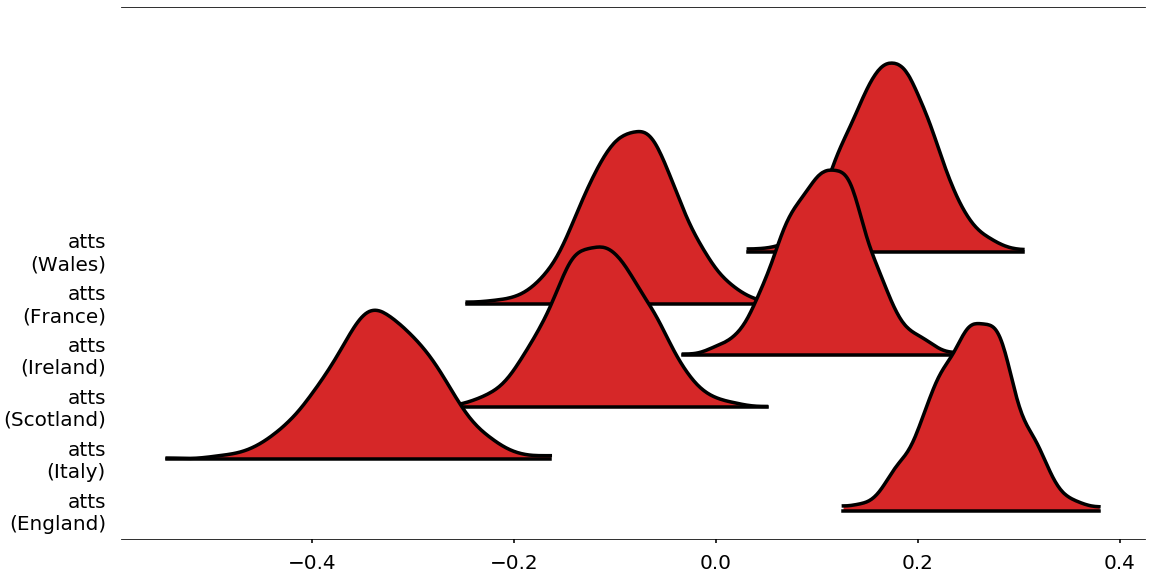
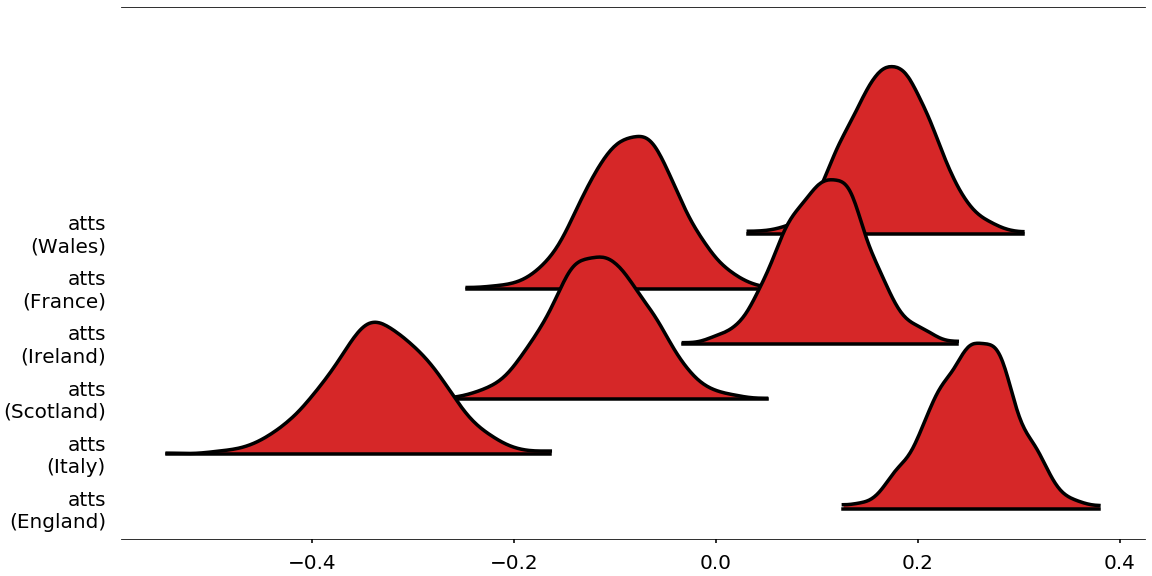
Updates

diff --git a/index.html b/index.html
@@ -33,7 +33,7 @@
 				<h3> Visualizing Bayesian models with xarray and ArviZ</h3>
 
 				<div>
-					<table style="width: 70%">
+					<table style="width: 60%">
 						<tr>
 							<td>
 								<img data-src="img/xarray.png" />
@@ -48,19 +48,19 @@
 
 						<tr>
 							<td>
-								<h5><em>Colin Carroll,</em> PyData NYC</h5>
+								<em>Colin Carroll</em>, Freebird, Inc
 							</td>
 						</tr>
 						<tr>
 							<td>
-								<small>October 17, 2018</small>
+								PyData NYC, October 17, 2018
 							</td>
 						</tr>
 					</table>
 				</div>
 			</section>
 
-			<section>
+			<section class="center">
 
 				<ul>
 					<li>What is Bayesian inference?</li>
@@ -71,30 +71,30 @@
 			</section>
 
 			<section>
-				<h2>What is Bayesian Inference?</h2>
-				$$
-				P(\theta | X) = \frac{P(X | \theta) P(\theta)}{P(X)}
-				$$
 
-				<div class=plots style="left: 180px; top: 40px">
-					<img class="fragment fade-in-then-out" data-src="img/graph1.png" />
-					<img class="fragment fade-in" data-src="img/graph2.png" />
-				</div>
+				<h2>What is Bayesian Inference?</h2>
+				<br>
+				<p style="font-size: 64px;">
+					$$
+					P(\theta | X) = \frac{P(X | \theta) P(\theta)}{P(X)}
+					$$
+				</p>
+
 			</section>
 
-			<section>
-				<h2>What is Bayesian Inference?</h2>
-				$$
-				P(\text{slope, intcpt.} | x, y) = \frac{P(x, y | \text{slope, intcpt.}) P(\text{slope, intcpt.})}{P(x, y)}
-				$$
+			<section class="center">
+				<p>
+					$$
+					P(\text{slope, intcpt.} | x, y) = \frac{P(x, y | \text{slope, intcpt.}) P(\text{slope, intcpt.})}{P(x, y)}
+					$$
+				</p>
+
 				<br>
 
-				$$
-				y = \text{slope} \cdot x + \text{intcpt.}
-				$$
-				<div class=plots style="left: 180px; top: 40px">
-					<img data-src="img/graph2.png" />
-				</div>
+				<p style="font-size: 64px;">
+					$$
+					y = \text{slope} \cdot x + \text{intercept}
+					$$
 
 			</section>
 
@@ -133,7 +133,7 @@
 				</div>
 			</section>
 
-			<section>
+			<section class="center">
 				<h2>What is
 					<img data-src="img/arviz.png" height=100px style="bottom: 0; margin: 0" />?</h2>
 			</section>
@@ -149,6 +149,15 @@
 				'z': x - y,
 			}
 					</code></pre>
+			</section>
+
+			<section>
+				<h2>Visualization</h2>
+				<pre><code class=python>az.plot_density(...)</code></pre>
+				<div class=plots>
+					<img class="fragment fade-in-then-out" data-src="img/density1.png" />
+					<img class="fragment fade-in" data-src="img/density2.png" />
+				</div>
 			</section>
 
 			<section>
@@ -445,7 +454,7 @@ az.convert_to_inference_data(...)</code></pre>
 			<section>
 				<h2>Thank You!</h2>
 				<pre><code class=python>			 pip install arviz</code></pre>
-				<img data-src="img/arviz.png" height=150< />
+				<img data-src="img/freebird.gif" height=250< />
 				<ul>
 					<li>github.com/arviz-devs/arviz</li>
 					<li>arviz-devs.github.io/arviz/</li>

diff --git a/outline.md b/outline.md
@@ -1,93 +1,135 @@
 
 # Outline
 
-Thank you for being here. This is a very exciting talk to give - ArviZ is a project that four of us have been coding hard on for about six months, with helpful input and pull requests from other members of the statistical computing community. ArviZ is a library for visualizing and criticising Bayesian anaylsis in Python. I hope today to do three things.
+Thank you for being here. This is a very exciting talk to give. ArviZ is an open source library for visualizing and criticising Bayesian anaylsis in Python. We have been working hard on it for about 8 months, and I am really excited to start sharing it with the larger PyData community.
 
+-------------
 
-In order for you to be properly impressed with the technical brilliance of ArviZ, I will give a brief overview of Bayesian statistics. Then I will show a little of what you can do with ArviZ. This is secretly also an overview of Bayesian statistics, in the spirit of form fitting function: I hope that those of you less familiar with these techniques will learn about the sorts of questions you can or should be asking about your data. We will conclude with a discussion of how we used xarray to interoperate between many different Bayesian libraries, and how useful the right datastructure for the job can be.
+I have a lot of goals for this talk. One is a light introduction to Bayesian statistics. I urge everyone to go see Sean Talt's master class coming up after this, or Michael Betancourt's tomorrow if you want more details. Another is to encourage everyone to go use ArviZ and then let me know you are using it. Secretly, though, this whole talk is about how choosing the right data structure - xarray - for our problem allowed us to quickly build a powerful library. There is a whole other talk to be had about how this choice also helped us move quickly as a distributed, open source, volunteer team, but we are already being pretty ambitious here.
 
+-------------
 
-As with last year, there are a number of very good Bayesian talks, including a master class in Bayesian statsitics directly after this session. We will consider this a light warmup of looking at Bayes' theorem. A reasonable definition of Bayesian statistics is that we consider the parameters of a model to be uncertain, as compared to frequentist statistics, where the data is uncertain. This is an example of a graphical model for linear regression. The box is called a plate, and the "20" indicates that `y` is actually 20 dimensional. Once we observe some data, we fill in that node, and use Bayes theorem to update our beliefs about the slope and the intercept.
+  A reasonable definition of Bayesian statistics is that we consider the parameters of a model to be uncertain and the data fixed, as compared to frequentist statistics, where the data is uncertain and parameters fixed. This is Bayes' rule, and it becomes Bayesian inference when we interpret `X` as our data, and `θ` as our parameters.
 
+-------------
 
-Getting rid of the theta and capital X, both the left and the right hand side here are functions of our parameters, the slope and intercept, while the data is fixed.
+Here is Bayes rule written down for this linear regression model. This is a posterior, likelihood, and prior. After observing some data `x` and `y`, we might ask what the model says about our slope and intercept. This is different from an introduction to machine learning in that I am not asking first about applying our model to new data! If you are doing Bayesian inference, you probably care about the uncertainty in your parameters.
 
+-------------
 
-Looking even more closely at linear regression, we might have some collection of `x` and `y` points. Using `scikit-learn`, we can fit a line to this example. The true slope and intercept are -1 and 1, and `scikit-learn` does a pretty good job recovering those. Let me also step back for a second here and say that machine learning is great, and there are lots of great reasons to use `scikit-learn`. Bayesian modeling should be considered another tool you can use.
+Looking even more closely at linear regression, suppose we have 20 `x` and `y` points. Using `scikit-learn`, we can fit a line to these points. The true slope and intercept are -1 and 1, and `scikit-learn` does a pretty good job recovering those. Let me also step back for a second here and say that machine learning is great, and there are lots of great reasons to use `scikit-learn`.  Fitting these points took 0 seconds on my laptop, and making 1000 new predictions would take an extra 0 seconds.
 
+-------------
 
-Looking at our parameters, `scikit-learn` has given us *point estimates* for the slope and the intercept. If we write down and fit the graphical model I showed earlier, we get distributions over the slope and intercept. Suppose for whatever reason that you get paid $100 if the slope is at least 1, and $10 if it is less than 1. You might appreciate having access to this posterior distribution.
+What if we care about uncertainty in our parameters? `scikit-learn` has given us *point estimates* for the slope and the intercept. Using a library like PyMC3, we get distributions over the slope and intercept. Suppose for whatever reason that you get paid $100 if the slope is at least 1, and $10 if it is less than 1. You might appreciate having access to this posterior distribution.
 
+-------------
 
-Now if we go back to plotting the line, everything turns into a distribution. Instead of a single line of best fit, we have a distribution of lines. We can also use the model to generate new datasets that we might see in the future, or to decide how surprising our model thinks each data point was. These are visualizations of the posterior and posterior predictive distributions, respectively.
+Now if we go back to plotting the line, everything turns into a distribution. Instead of a single line of best fit, we have a distribution of lines. We might pause for a moment and wonder how we store this data - this is 500 `x, y` tuples, and there is secretly a little more structure that makes it 4 dimensional.
 
+ We can also use the model to generate new datasets that we might see in the future, or to decide how surprising our model thinks each data point was. This is how we might do prediction with a Bayesian model.
+
+-------------
 
 Another example we might care about is classification. This is a synthetic dataset of five cluster that overlap. Fitting this with an algorithm like K-Means gives a single classification for each point. We can write down a generative model and fit that to instead have a distribution of labels for each point.
 
+-------------
 
 Now what is ArviZ?
 
+-------------
 
-The easiest way to show it off is as a visualization library. We can start off by generating random numbers in numpy and putting them into a dictionary. These are uniformly distributed random numbers, but I put them together to have some correlation between `z` and `x` or `y`, but `x` and `y` are independent.
+The easiest way to show it off is as a visualization library. We can start off by generating random numbers in numpy and putting them into a dictionary. So `x` and `y` are independent uniform random numbers, and `z` should be correlated to both of them.
 
+-------------
 
-One of my favorite plots is `plot_pair`. It shows right away the relationship between any two distributions. It has a few options that you can switch around depending on what sort of data you are looking at. The 2d kde is the most visually pleasing, but might show you some artifacts.
+Here are the individual densities. This is called a *kernel density estimate*, and smooths out a histogram. You get a quick idea of the shape, but notice that it is not necessarily what you would get with more data. This is the same synthetic data with 2 million points instead of 200.
 
+-------------
 
-A feature of Bayesian inference is that many parameters are high dimensional. This analysis is one from the PyMC3 docs, that estimates some latent measure of offense for European rugby teams. Again, we have a few styles available. This forest plot gives us a glimpse at how Bayesian inference works. We are just getting a numpy array of samples for each parameter. For technical reasons, we repeat this multiple times, and will analyse these chains to make sure our algorithm actually worked. The forest plot is a way to visually check that each chain looks similar. This plot also exposes the effective sample size and R-hat statistic, which are also used to assess convergence. R-hat should be very close to 1, or else you have had some trouble.
+One of my favorite plots is `plot_pair`. It shows the relationship between two distributions, and we can see pretty clearly the structure we put into our data set. It has a few options that you can switch around depending on what sort of data you are looking at. The 2d kde is the most visually pleasing, but might show you some artifacts.
 
+-------------
 
-In case you have only two variables, looking at a joint plot will include the marginal distributions. This is a fun example, since I used a custom PyMC3 library to sample from the PyMC3 and Stan logos. ArviZ works really well with PyMC3, so I can just plot this without too much trouble, other than adjusting the aspect ratio.
+A feature of Bayesian inference is that many parameters are high dimensional. We saw an example with the mixture model earlier. This analysis is one from the PyMC3 docs, and estimates some latent measure of offense for European rugby teams. Again, we have a few styles available. This forest plot gives us a glimpse at how Bayesian inference works. We are just getting a numpy array of samples for each parameter. For technical reasons, we repeat this multiple times, and will analyse these chains to make sure our algorithm actually worked. Stepping back and counting, we have 500 draws in 4 chains of 6 teams, making this data 3 dimensional.
 
+ The forest plot is a way to visually check that each chain looks similar. This plot also exposes the effective sample size and R-hat statistic, which are also used to assess convergence. R-hat should be very close to 1, or else you have had some trouble.
 
-Besides visualizing your distributions, ArviZ includes diagnostics: ways to make sure the algorithm you were using worked. There are two ways for a model to fail: the model can fail to represent the data, and the algorithm can fail to fit the model. The eight schools model is a famous one in Bayesian statistics: the idea is that the same SAT prep course was taught at eight schools, and a mean improvement and standard deviation was reported from these eight schools. There is the idea that we might be able to pool the data from the schools to get a better estimate of individual school performance.
+-------------
 
-This is an example of a hierarchical model, and it can actually be difficult for algorithms to sample from. Specifically, this centered model will do badly, and the non-centered model does well. I encourage you to attend Sean Talts course today, and Michael Betancourt's tomorrow if you want to know more about why. I want to show you how you can use ArviZ to decide that the non-centered algorithm captured the posterior better.
+In case you have only two variables, looking at a joint plot will include the marginal distributions. This is a fun example - I spent some time building a library on top of PyMC3 to do something like this, and ArviZ does it for free.
 
+-------------
 
-First the trace plot, which shows up in many tutorials for PyMC3 at least. This is a little hard to spot, but you can see one of the four chains got stuck. I can single it out to see better. This is a bad sign, and you should consult your local statistician for how to fix it. The non-centered trace does not have any obvious such artifacts.
+Besides visualizing your distributions, ArviZ includes diagnostics: ways to make sure the algorithm you were using worked. There are two ways for a model to fail: the model can fail to represent the data, and the algorithm can fail to fit the model.
 
+ The eight schools model is a famous one in Bayesian statistics: the idea is that the same SAT prep course was taught at eight schools, and a mean improvement and standard deviation was reported from these eight schools. There is the idea that we might be able to pool the data from the schools to get a better estimate of individual school performance.
+
+This is an example of a hierarchical model, and it can actually be difficult for algorithms to sample from. Specifically, this centered model will do badly, and the non-centered model does well. Both these models ship with ArviZ: you can `pip install arviz` and recreate all these plots.
+
+I will talk about how to use ArviZ to see that you have a problem, but I encourage you to attend some of those Bayesian master classes to learn why these are problems, and how to fix them.
+
+-------------
+
+First the trace plot, which shows up in many tutorials for PyMC3. This is a little hard to spot, but one of the four chains got stuck. I can single it out to see better. This is a bad sign! You should inspect your model to fix it! The non-centered trace does not have any such obvious artifacts.
+
+-------------
 
 This is a plot of the distribution of energy, which is a quantity computed in modern, gradient based MCMC samplers. The two distributions should match up. These do not, which also indicates a problem. Again, the non-centered model looks better.
 
+-------------
 
-One reason we love gradient based MCMC samplers is that when they have trouble, it is obvious. These divergences are recorded by both PyMC3 and PyStan, and arviz will annotate your pair plot with the divergences. We get more information here, that the problems in the centered model have something to do with `tau` being small. The non-centered parameterization I am working with also encountered some divergences! I am worried about this, and might do some further checking, but there is no good pattern I see in the pair plot.
+One reason we love gradient based MCMC samplers is that when they have trouble, it is obvious. These divergences are recorded by both PyMC3 and PyStan, and arviz will annotate your pair plot with the divergences.
 
+This problem is very related to the trace plot problem we saw earlier, but it is easier to see here that the problems in the centered model show up when `tau` is small. The non-centered parameterization I am working with also encountered some divergences! I should worry about this as well, but there is no similar pattern as with the non-centered version. Both Pystan and PyMC3 will actually give you automated advice that will fix those divergences.
+
+-------------
 
 Finally, this parallel plot is a quick way to check whether there is some coherence in where divergences happen. Again we see that a small value of `tau` seems to be the problem, but there is no similar pattern in the non-centered model.
 
+-------------
 
 There are also a number of statistical computations built into Arviz! These are less flashy, but arguably more useful. Again, if we were comparing our two models, we might notice that the effective sample size of the non-centered model was much higher than for the centered model.
 
+-------------
 
-To conclude, I want to talk about how ArviZ does what it does. This is a simplified version of a Bayesian workflow. Building a model and inferring parameters is hard. You should use a specialized library like Stan or PyMC3 for those. ArviZ lives at this third node. We provide visualization and diagnostic functions for the libraries that did the inference.
+To conclude, I want to talk about how ArviZ does what it does. This is a simplified version of a Bayesian workflow. Building a model and inferring parameters is hard. You should use a specialized library like Stan or PyMC3 for those. ArviZ lives at this third node. Our goal with ArviZ is to provide visualization and diagnostic functions for the libraries that did the inference.
 
+-------------
 
-When you do Bayesian inference with these libraries, the object that returned is usually designed with that inference in mind. There is usally a hodgepodge of methods attached to it, and it is very hard to persist that object. If you want to inspect the model your coworker fit, that is very hard, and probably insecure if you use pickle.
+What does that look like now? Here are four popular Bayesian inference libraries. The objects used for these libraries is usually designed with that inference in mind. There is usally a hodgepodge of methods attached to it, and it is very hard to persist that object. If you want to inspect the model your coworker fit, that is very hard, and probably insecure if you use pickle.
 
-ArviZ wanted to work with all these libraries, and we decided that the right way to do that was to use a common data structure, and implement our functions on that datastructure.
+ArviZ wanted to work with all these libraries, and we decided that the right way to do that was to use a common data structure, and to implement our functions on that datastructure.
 
+-------------
 
-So pandas is great, right? This was the very first version of ArviZ, in fact.
+So pandas is great, right? This was the very first version of ArviZ, in fact. The problem is that a parameter might have 500 chains of 4 draws each, and be 2 dimensional, meaning we need a 4d data structure to store it.
 
+-------------
 
-The problem is that a parameter might have 500 chains of 4 draws each, and be 2 dimensional, meaning we need a 4d data structure to store it.
+While using pandas, we were constantly using awkward constructs to get around the tabular representation of data. Really, we needed high dimensional pandas.
 
+-------------
 
 Thank goodness there is a library built for storing high dimensional, labelled data. Xarray is a joy to work with, it cares about high dimensional labelled data, it is performant, and it naturally serializes as netcdf files.
 
+-------------
 
-This is what ArviZ uses as a data structure. We have a very small `InferenceData` class that holds multiple xarray datasets. This class emulates the groups that are available in the netcdf format but in memory. Every InferenceData object can have all or some of these groups. The `posterior` is perhaps the most used one, but the more groups you have, the more interesting analyses you can do.
+This is what ArviZ uses as a data structure. We have a very small `InferenceData` class that holds multiple xarray datasets. It is about 20 lines of code. This class emulates the groups that are available in the netcdf format but in memory. Every InferenceData object can have all or some of these groups. The `posterior` is perhaps the most used one, but the more groups you have, the more interesting analyses you can do. `sample_statistics`, for example, stores the data about divergences and energy.
 
+-------------
 
-In code, this is what it looks like.
+In code, this is what the inference data object looks like.
 
+-------------
 
-Attribute access gives you the xarray dataset. Notice that we can also attach JSON metadata to the dataset that travels with it.
+Attribute access gives you the xarray dataset. Notice that we can also attach JSON metadata to the dataset that travels with it. It is on the roadmap to make these attributes more informative.
 
+-------------
 
 This approach has allowed us to implement a number of conversion functions. Any of these libraries are natively supported in ArviZ. In fact, if you call a function in ArviZ with an object from one of these libraries, ArviZ calls these conversion functions internally and typically "does the right thing". Other libraries can put objects into a dictionary of numpy arrays and get these visualizations and diagnostics for free.
 
+-------------
 
 The other side effect of using xarray and netcdf is that we can ship models easily. This is the part of the ArviZ roadmap I am most excited about - building a model zoo so ArviZ users can download and analyze models that other people fit. So this is my call to action for all of you: if you have an interesting model that you have fit, and want to add it to this "model zoo", please get in touch or open an issue!
 
